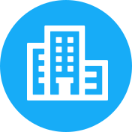
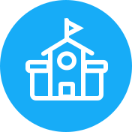
-

Changed region(s): [[0.1818, 0.1212, 0.8182, 0.7879]]

diff --git a/src/components/watchPosition/js/addNewLocation.jsx b/src/components/watchPosition/js/addNewLocation.jsx
@@ -69,7 +69,7 @@ export default class addNewLocation extends React.Component {
             }, success: function (data) {
                 if (data.status === '1') {
                     _this.setState({
-                        defaultPos: <div className="search-mapItem">
+                        defaultPos:
                             <Item
                                 arrow="horizontal"
                                 className="line_public"
@@ -85,7 +85,6 @@ export default class addNewLocation extends React.Component {
                                 <div className="name">当前位置</div>
                                 <Brief>{data.regeocode.formatted_address}</Brief>
                             </Item>
-                        </div>
                     })
                 } else {
                     Toast.fail('未知的错误', 2, null, false)
@@ -353,7 +352,7 @@ export default class addNewLocation extends React.Component {
                                    placeholder="请输入位置信息"/>
                             <div className="icon-search" onClick={this.searchPos}></div>
                         </div>
-                        {this.state.defaultPos}
+                        <div className="search-mapItem">{this.state.defaultPos}</div>
                     </div>
                     <div className="searchResults">
                         {this.state.posList}

diff --git a/src/components/watchPosition/js/updateLocation.jsx b/src/components/watchPosition/js/updateLocation.jsx
@@ -66,7 +66,6 @@ export default class updateLocation extends React.Component {
                 if (data.status === '1') {
                     _this.setState({
                         defaultPos:
-                            <div className="search-mapItem">
                             <Item arrow="horizontal"
                             className="line_public"
                             multipleLine
@@ -81,7 +80,6 @@ export default class updateLocation extends React.Component {
                             <div className="name">当前位置</div>
                             <Brief>{data.regeocode.formatted_address}</Brief>
                         </Item>
-                        </div>
                     })
                 } else {
                     Toast.fail('未知的错误', 2, null, false)
@@ -383,7 +381,7 @@ export default class updateLocation extends React.Component {
                                    placeholder="请输入位置信息"/>
                             <div className="icon-search" onClick={this.searchPos}></div>
                         </div>
-                        {this.state.defaultPos}
+                        <div className="search-mapItem">{this.state.defaultPos}</div>
                     </div>
 
                     <div className="searchResults">

diff --git a/src/components/watchPosition/js/commonLocation.jsx b/src/components/watchPosition/js/commonLocation.jsx
@@ -157,7 +157,7 @@ export default class commonLocation extends React.Component {
                 >
                     <span className="spaceAvatar">
                         <img style={{borderRadius: '50%'}}
-                             src={require("../img/icon-home.png")} alt=""/>
+                             src={require("../img/icon-Public.png")} alt=""/>
                     </span>
                     <div className="space-wrap">
                         <div className="space-name text_hidden">{v.homeName}</div>

diff --git a/src/helpers/webServiceUtil.js b/src/helpers/webServiceUtil.js
@@ -1,7 +1,7 @@
 var isDebug = true;
 var localDomain = "192.168.50.15";   //请求地址
 var isDebugLocal = true;
-var localUrl = "192.168.50.29";    //跳转地址本地地址
+var localUrl = "192.168.50.163";    //跳转地址本地地址
 var isSafeDebug = true;     //false则为隐藏主页列表，本地调试改为true
 
 
